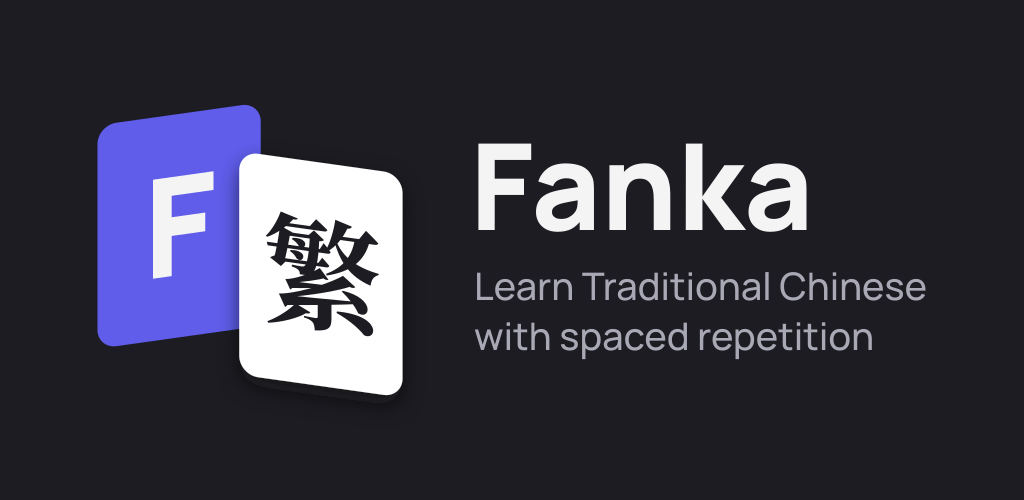
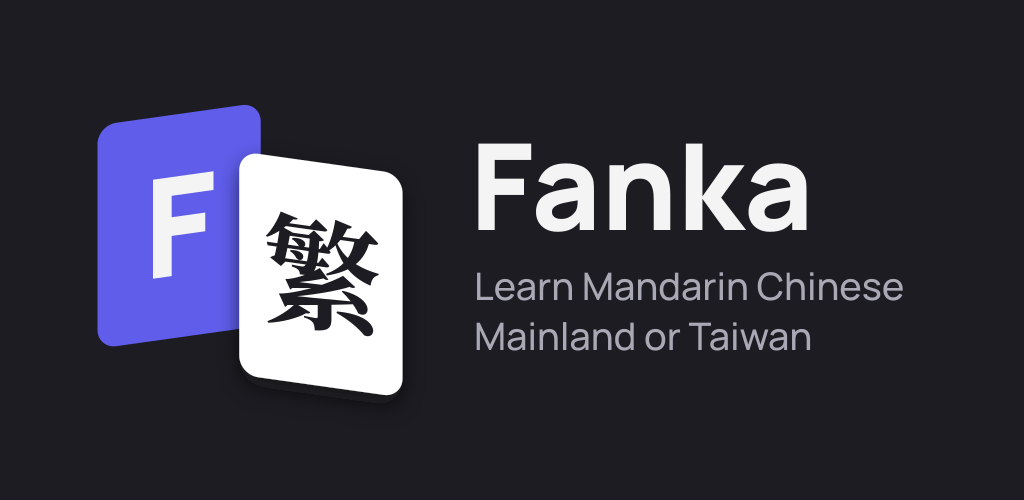
Describe both courses in the Play listing and the feature graphic

Changed region(s): [[0.4688, 0.63, 0.875, 0.72], [0.5625, 0.54, 0.9062, 0.6]]

diff --git a/docs/play-store.md b/docs/play-store.md
@@ -133,37 +133,43 @@ for 14 days in a row before it can apply for production.
 
 **Short description** (80):
 
-> Learn Traditional Chinese with spaced repetition, stroke order and audio.
+> Mandarin for Mainland or Taiwan: HSK and TBCL lessons, reviews and writing.
 
 **Full description** (4000):
 
-> Fanka is a spaced-repetition app for Traditional Chinese.
+> Fanka teaches Mandarin Chinese with short lessons and spaced repetition.
 >
-> Review the cards that are due today, grade how well you remembered each one,
-> and Fanka schedules the next review for when you are about to forget it.
+> Choose what you learn when you start:
 >
-> - Decks grouped by lesson, with characters, pinyin and translations
+> - Mainland Chinese: simplified characters and pinyin, with every word of the
+>   HSK syllabus, levels 1 to 9.
+> - Taiwanese Mandarin: traditional characters, zhuyin and pinyin, with every
+>   word of the TBCL, Taiwan's official standard, levels 1 to 7.
+>
+> Each lesson brings 10 new words: discover them with their pronunciation,
+> meaning and an example sentence, practise them with quick exercises, and they
+> join your daily reviews. Every three lessons, a writing session teaches you to
+> draw them stroke by stroke.
+>
+> - Spaced repetition that schedules each word just before you would forget it
 > - Writing practice with stroke order
-> - Speaking practice: answer discussion questions aloud, then hear a model
->   answer
-> - The 80 most common radicals
 > - Pronunciation with your device's own voice
 > - Stats: retention, streak, forecast of upcoming reviews
 > - Daily reminders
-> - Import your own cards
+> - Your own decks and card import
+> - The 80 most common radicals (Taiwan course)
 >
 > Fanka works offline. Without an account, everything stays on your phone. Sign
 > in with your email to sync across devices; there are no ads, no tracking and
 > no analytics.
->
-> Traditional characters only.
 
 **Graphics** (`store/`, rebuilt with `node scripts/build-brand.mjs`):
 
 - App icon: `store/icon-512.png`
 - Feature graphic: `store/feature-graphic.png`
 - Phone screenshots, 2 to 8, 9:16 or 16:9, at least 1080 px wide: take them on
-  the phone (Today, Review with a card revealed, Writing, Decks, Stats).
+  the phone (Today, a lesson's word, an exercise, Review with a card revealed,
+  Writing, Stats).
 
 ## Data safety answers
 
